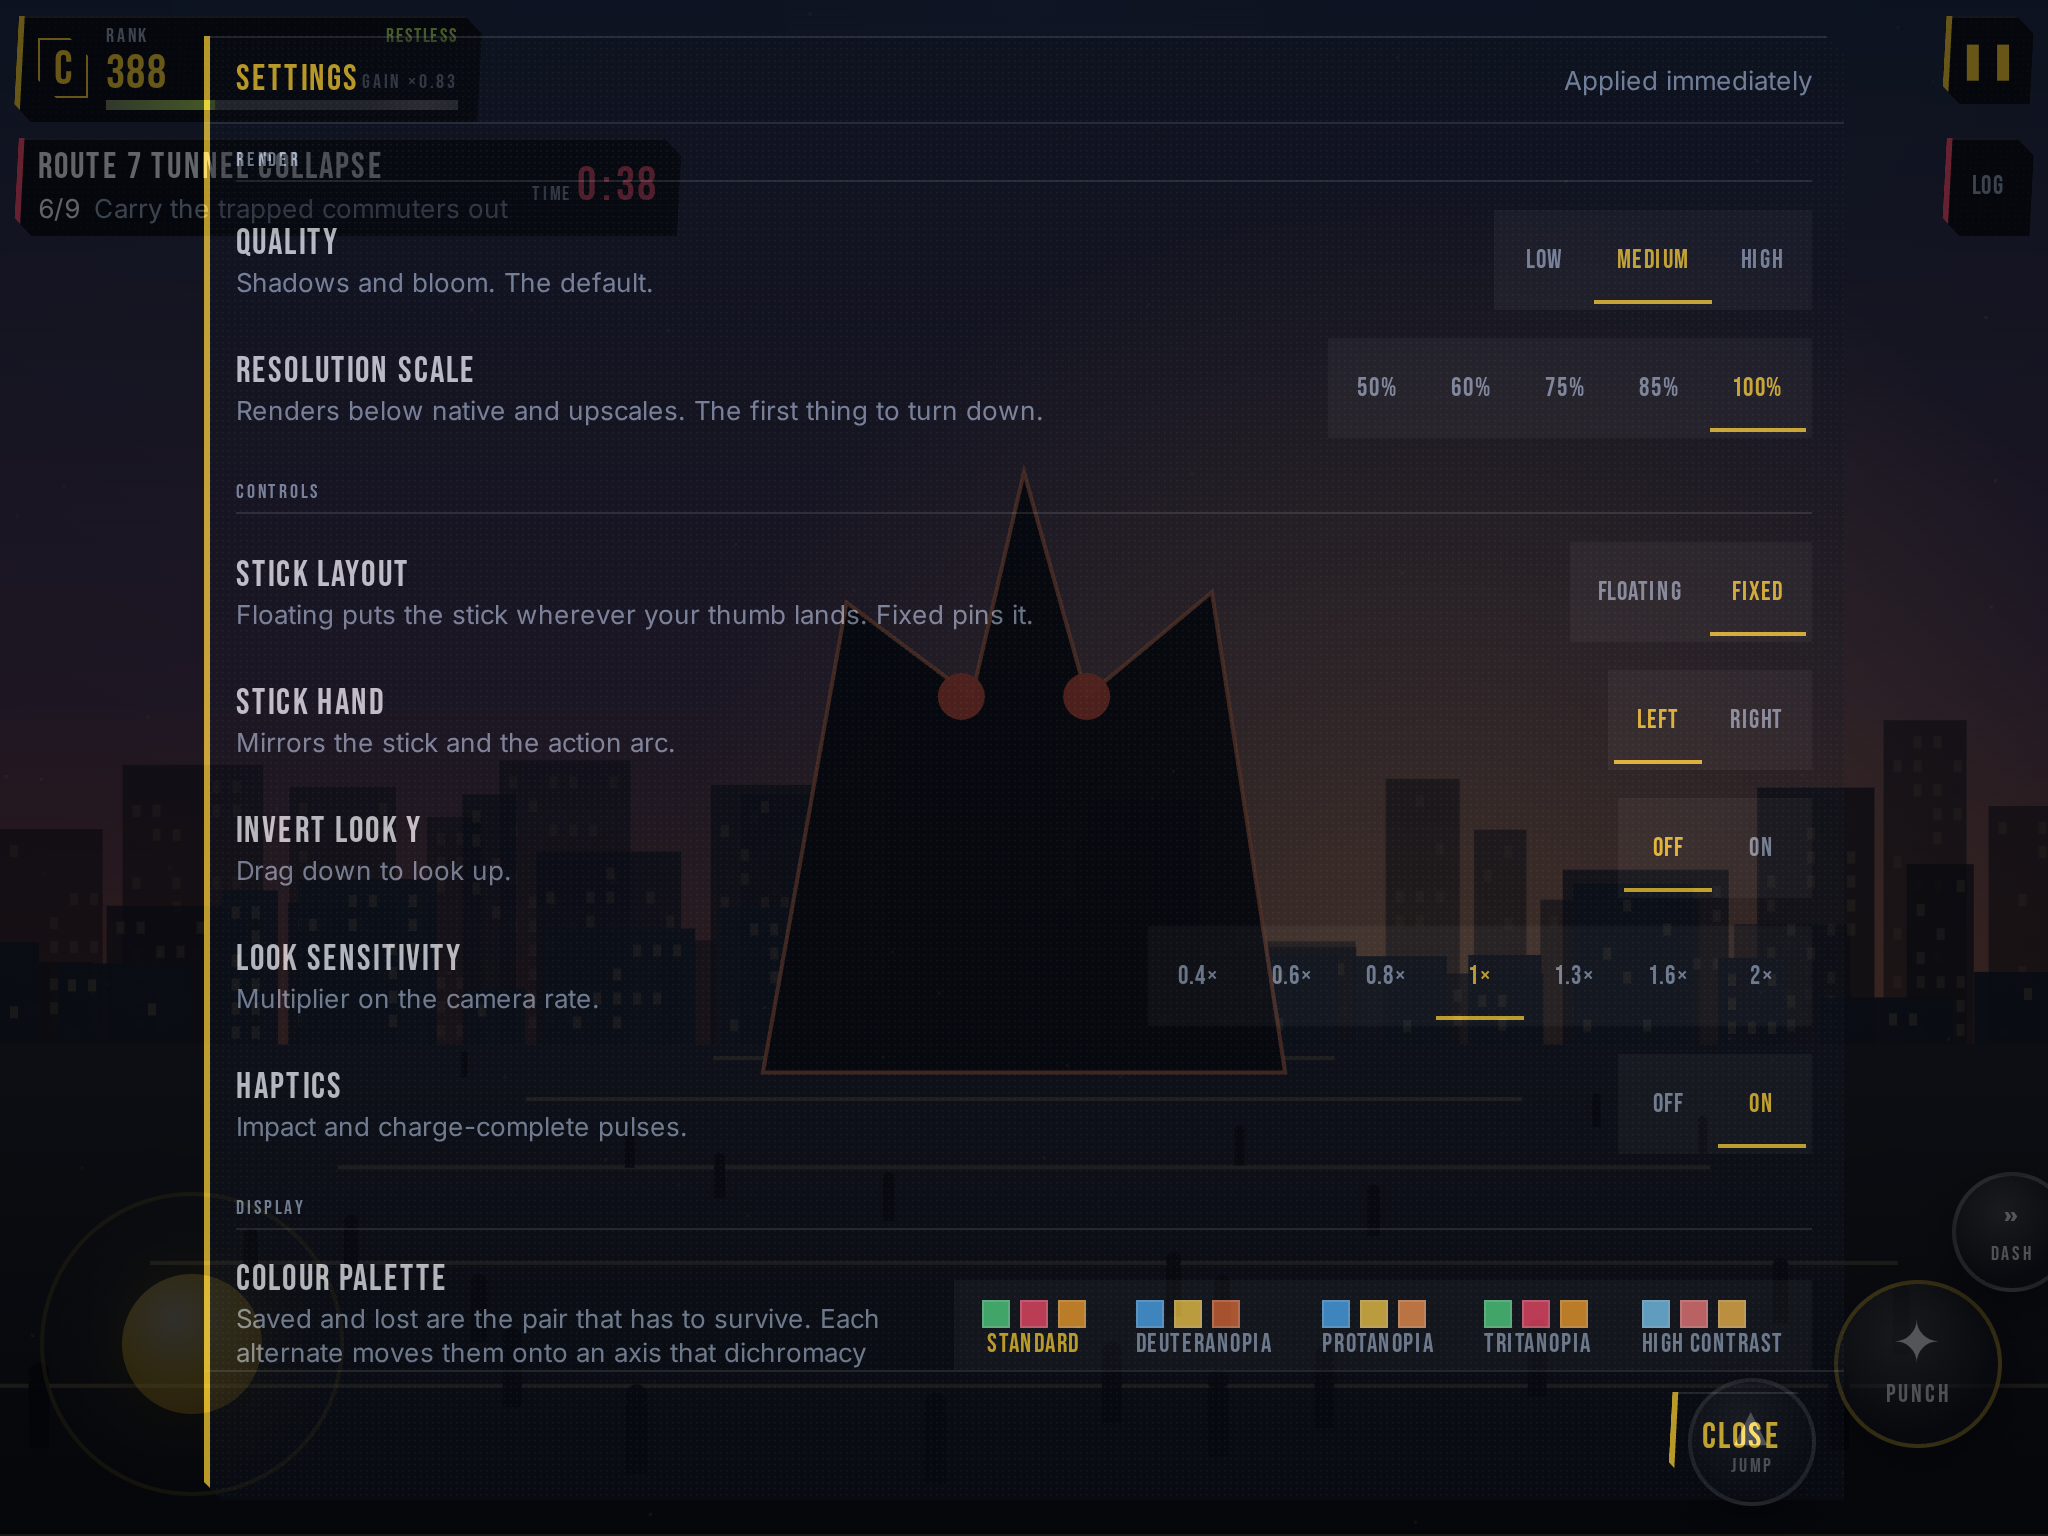
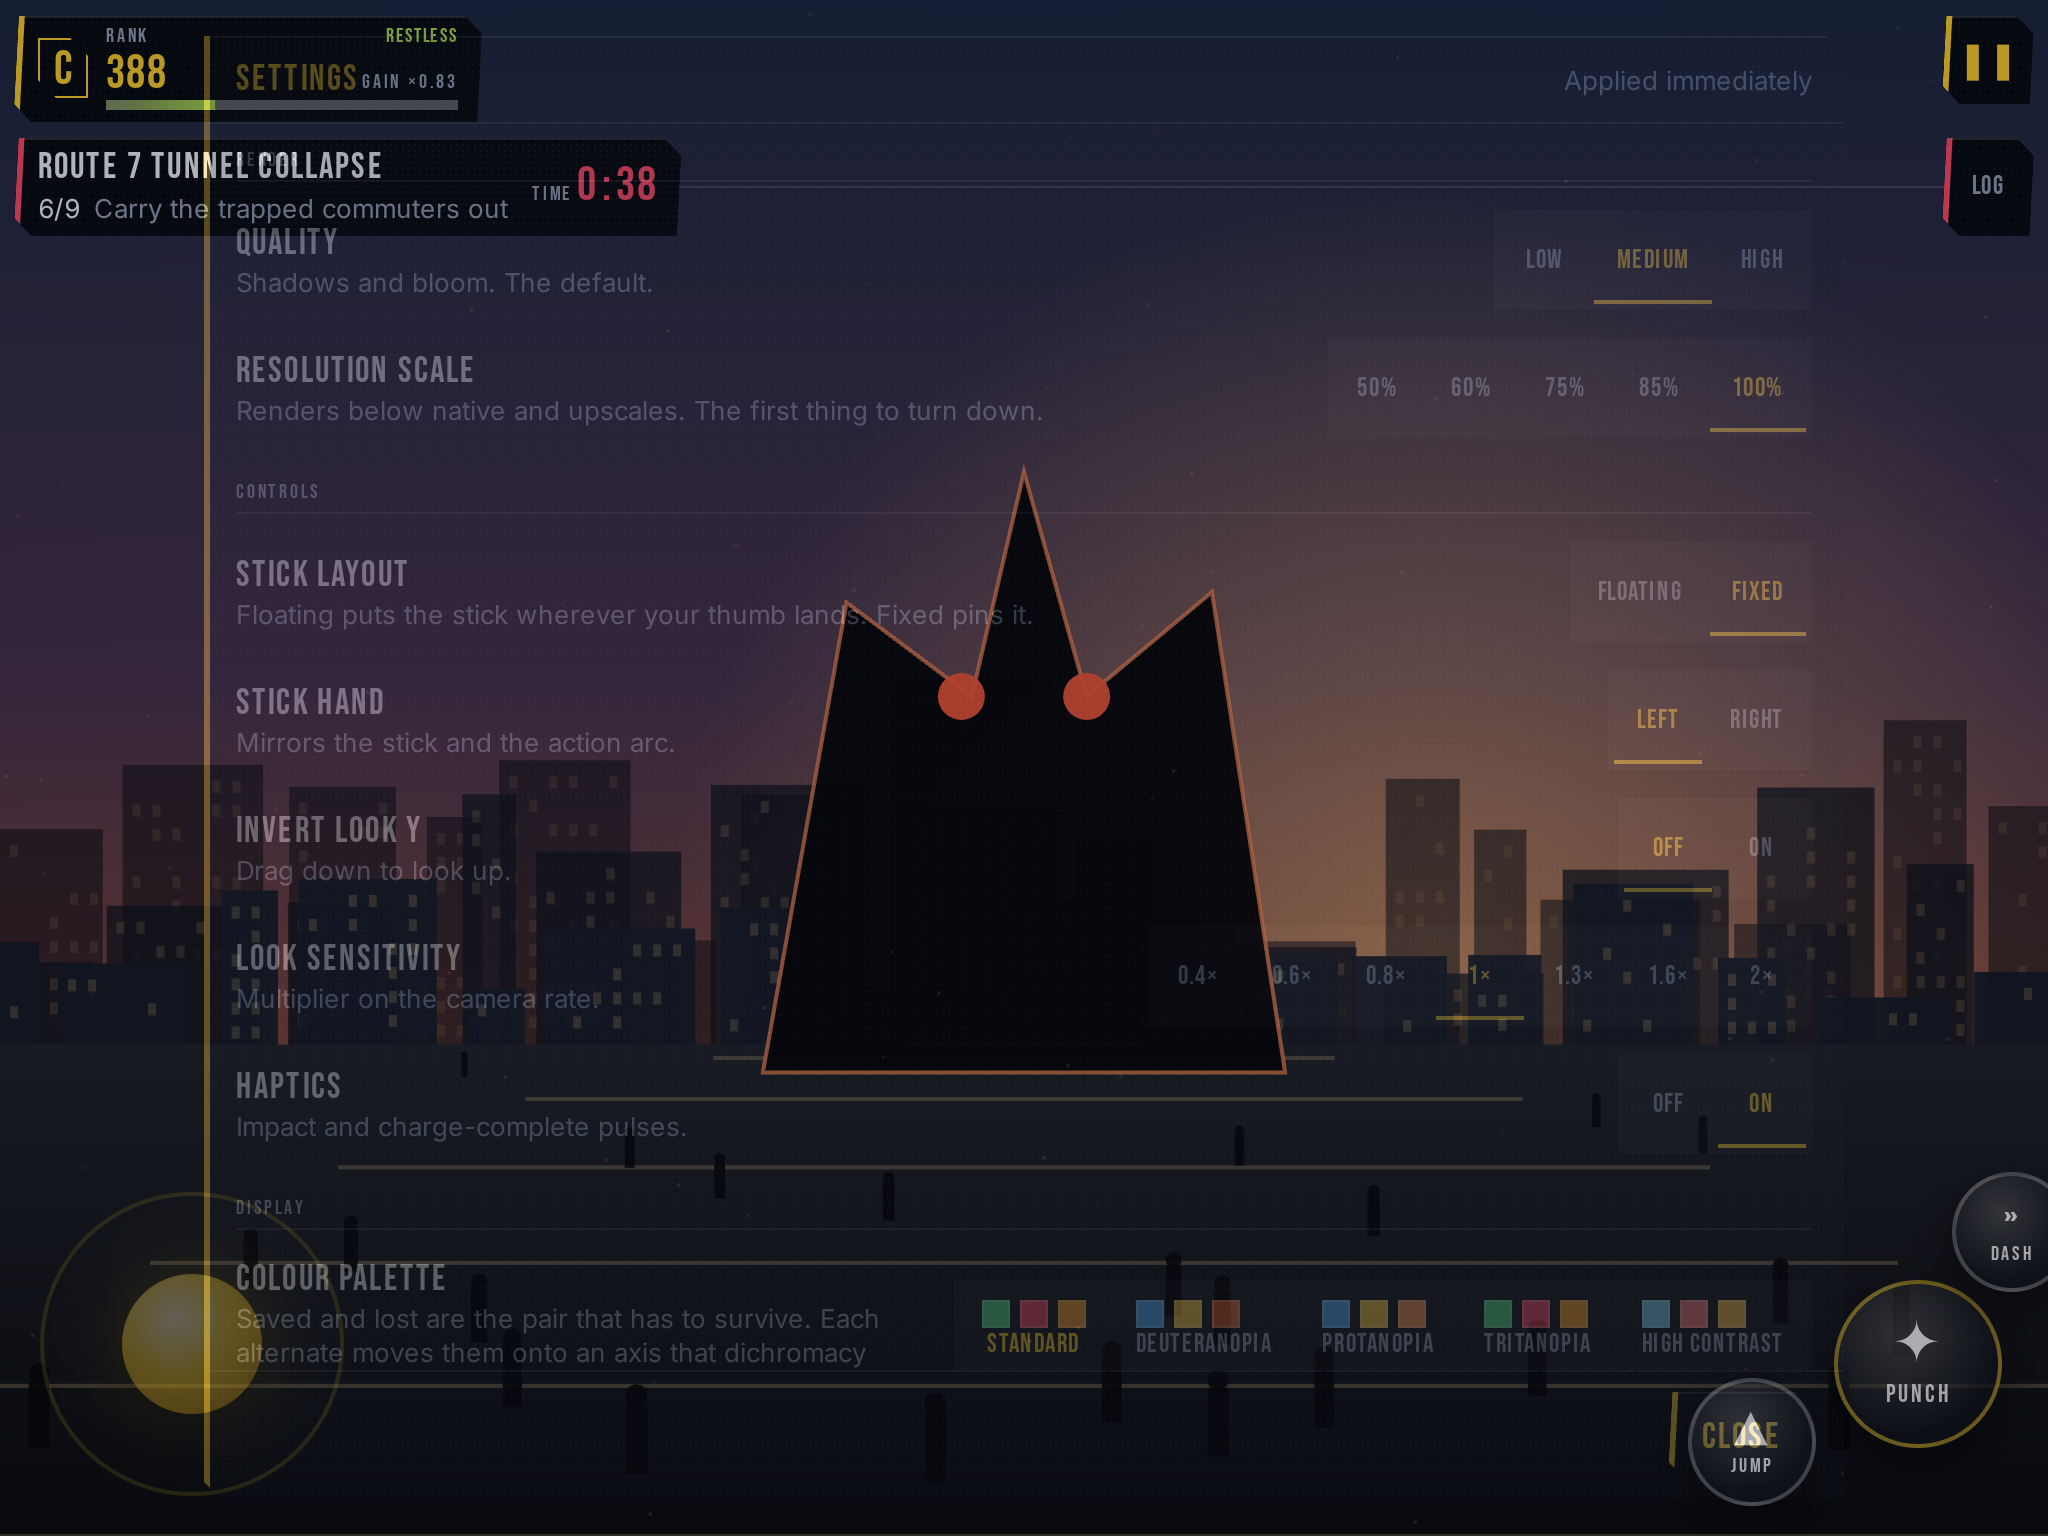
Checkpoint the critic loop mid-pass
Source and evidence together, so the screenshots cannot disagree with the
stylesheet that produced them. The loop is still running and more will change.

Where the harness stands at this commit: 159 checks, zero failures. That includes
the four families that were landed deliberately red against the old layout —
panel-vs-panel overlap, band fit at both scales, hit ownership across the stick
zone, and mount parity. `stolenTouches` is empty, where it previously held 98
probes owned by the quest tracker.

Green here: typecheck, lint, format:check, HUD suite 167 tests.

Claude-Session: https://claude.ai/code/session_01QU3kHNpXWhesDJjfHp9d7E

diff --git a/src/ui/hud/styles.ts b/src/ui/hud/styles.ts
@@ -628,13 +628,18 @@ ${allPalettes()}
   --hud-edge:var(--hud-accent);
   display:flex;align-items:stretch;justify-content:space-between;
   gap:6px;min-height:${MIN_TAP_PX}px;
+  background:linear-gradient(var(--hud-line),var(--hud-line)) 0 50% / 100% 1px no-repeat;
 }
 /* The ROW spans the band so its button lands under the pause button on every
-   profile; the PLATE inside it is capped for reading. A duty line 1008 px wide
-   on a tablet is not a line, it is a horizon. */
+   profile; the PLATE inside it is sized to what it is SAYING, capped for
+   reading. Two reasons, and the second is the one that matters: a duty line
+   1008 px wide on a tablet is not a line, it is a horizon — and a full-width
+   plate is the heaviest single object in a 121 px band, mostly to hold its own
+   emptiness. Sized to content it reads as a strip torn off a longer document,
+   with the city visible in the gap before the button. */
 .hud-tracker__plate{
   flex:0 1 auto;min-width:0;display:flex;align-items:center;gap:12px;
-  width:min(calc(760px * var(--hud-scale)),100%);
+  width:max-content;max-width:min(calc(760px * var(--hud-scale)),100%);
 }
 /* THE ONE WAY INTO THE QUEST LOG FROM A FIGHT, and it is a separate 44 px
    button rather than the strip itself for a reason the harness measures:
@@ -646,7 +651,7 @@ ${allPalettes()}
 .hud-tracker__open{
   flex:0 0 auto;width:${MIN_TAP_PX}px;padding:0;
   display:grid;place-items:center;
-  font-size:var(--t-micro);letter-spacing:.14em;color:var(--hud-ink-muted);
+  font-size:var(--t-body);letter-spacing:.06em;color:var(--hud-ink-muted);
 }
 .hud-tracker[data-urgency='soon']{--hud-edge:var(--hud-collateral)}
 .hud-tracker[data-urgency='critical']{--hud-edge:var(--hud-lost)}
@@ -807,8 +812,8 @@ ${allPalettes()}
 @keyframes hud-stamp{from{opacity:0;transform:scale(1.06)}to{opacity:1;transform:none}}
 @keyframes hud-stamp-mark{0%{transform:scale(1)}30%{transform:scale(1.28)}100%{transform:scale(1)}}
 @keyframes hud-sweep{
-  0%{transform:skewX(var(--hud-skew)) scaleX(0);opacity:.55}
-  70%{transform:skewX(var(--hud-skew)) scaleX(1);opacity:.3}
+  0%{transform:skewX(var(--hud-skew)) scaleX(0);opacity:.42}
+  70%{transform:skewX(var(--hud-skew)) scaleX(1);opacity:.22}
   100%{transform:skewX(var(--hud-skew)) scaleX(1);opacity:0}
 }
 

diff --git a/src/ui/hud/__tests__/styles.test.ts b/src/ui/hud/__tests__/styles.test.ts
@@ -374,11 +374,16 @@ describe('HUD scale', () => {
       '.hud-tracker__plate',
       '.hud-charge',
     ]) {
-      const sized = ruleBodies(selector).filter((body) => /(?:^|[;\s])width:/.test(body));
-      expect(sized.length, selector).toBeGreaterThan(0);
-      for (const body of sized) {
-        const declaration = /(?:^|[;\s])width:([^;]*)/.exec(body)?.[1] ?? '';
-        expect(declaration, selector).toContain('var(--hud-scale)');
+      const declarations = ruleBodies(selector).flatMap((body) => [
+        ...body.matchAll(/(?:^|[;\s])(?:max-)?width:([^;]*)/g),
+      ]);
+      expect(declarations.length, selector).toBeGreaterThan(0);
+      for (const [, value] of declarations) {
+        // An INTRINSIC width states "I have no size of my own, ask the box
+        // around me" and carries nothing that could go stale at 130 %. Anything
+        // that does name a size has to name --hud-scale with it.
+        if (/^(?:100%|auto|max-content|min-content|fit-content)$/.test(value!.trim())) continue;
+        expect(value, selector).toContain('var(--hud-scale)');
       }
     }
   });
